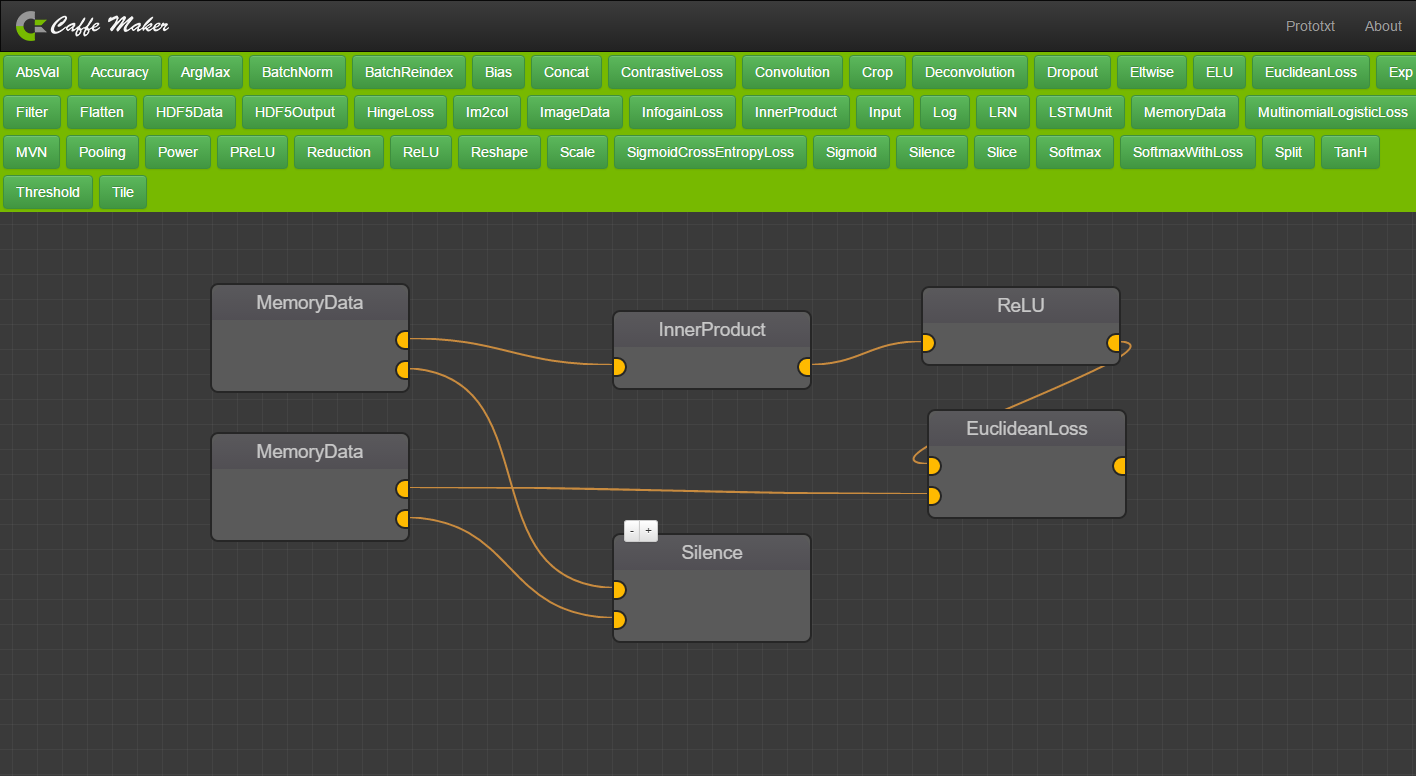
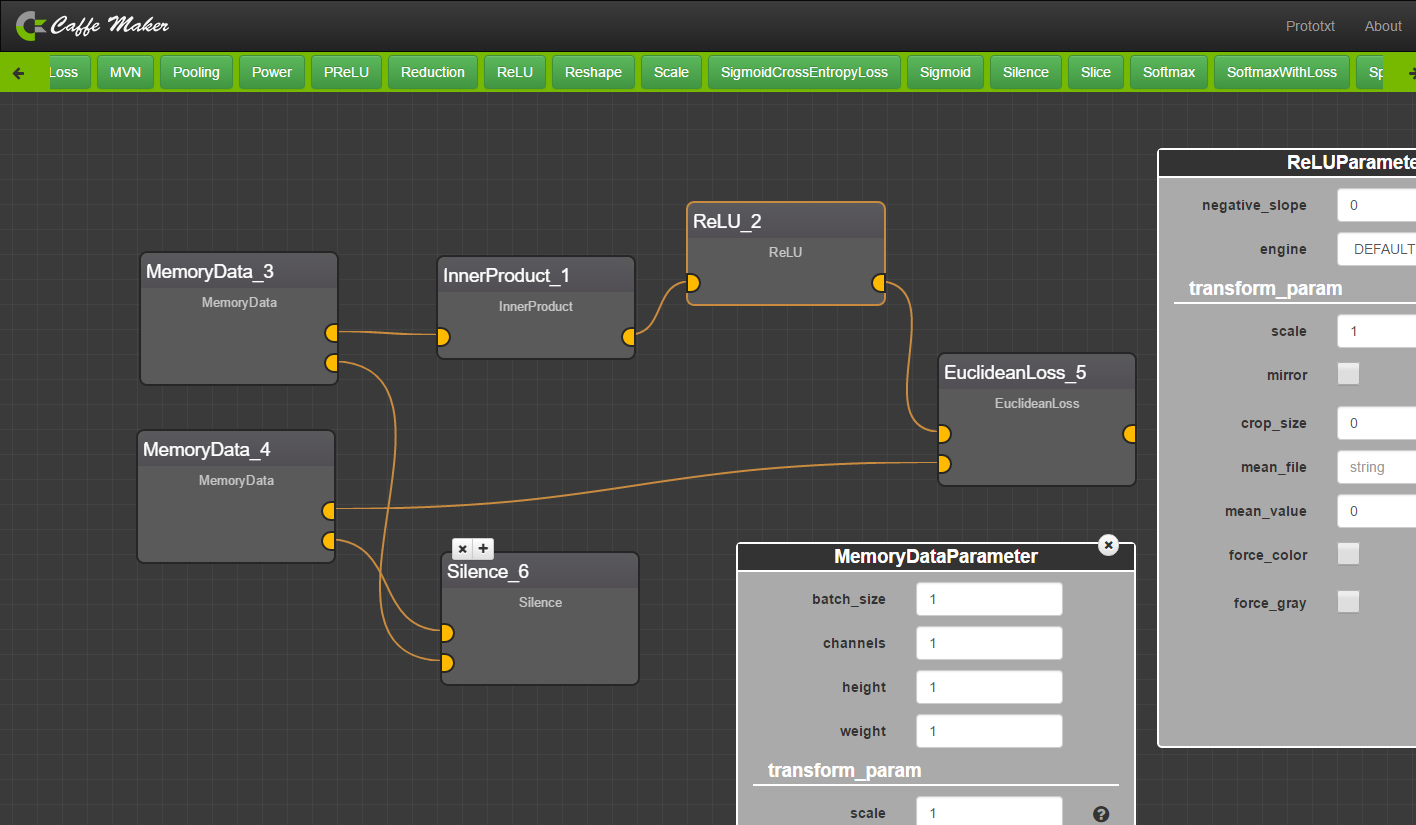
Added layers' parameters and panels.

diff --git a/src/app/property-view/property-view.component.ts b/src/app/property-view/property-view.component.ts
@@ -1,4 +1,5 @@
-import { Component, OnInit } from '@angular/core';
+import { Component, OnInit, Input } from '@angular/core';
+import { Property , PropertyType } from '../layer-parameter'
 
 @Component({
   selector: 'app-property-view',
@@ -6,10 +7,51 @@ import { Component, OnInit } from '@angular/core';
   styleUrls: ['./property-view.component.css']
 })
 export class PropertyViewComponent implements OnInit {
+  
+  @Input() property : Property;
 
   constructor() { }
 
   ngOnInit() {
+  }
+
+  isNumber() {
+    return (this.property.type == PropertyType.float || this.property.type == PropertyType.int32 || this.property.type == PropertyType.int64 || this.property.type == PropertyType.uint32);
+  }
+  hasMinimum() {
+    return this.property.type == PropertyType.uint32;
+  }
+  minimum() {
+    return 0;
+  }
+  isText() {
+    return (this.property.type == PropertyType.string);
+  }
+  isOption() {
+    return (this.property.type == PropertyType.options);
+  }
+
+  isBool() {
+    return this.property.type == PropertyType.bool;
+  }
+
+  placeHolder() : string{
+    switch(this.property.type)
+    {
+      case PropertyType.bool:
+        return "bool";
+      case PropertyType.float:
+        return "float";
+      case PropertyType.int32:
+        return "int32";
+      case PropertyType.int64:
+        return "int64";
+      case PropertyType.string:
+        return "string";
+      case PropertyType.uint32:
+      return "uint32";
+    }
+    return "";
   }
 
 }

diff --git a/src/app/caffe-buffet/caffe-buffet.component.html b/src/app/caffe-buffet/caffe-buffet.component.html
@@ -1,9 +1,9 @@
 <div class="buffet">  
-  <div class="scroller-left" (mousedown)="startScrollLeft()" (mouseup)="stopScroll()" (dblclick)="scrollLeft()"><i class="fa-arrow-left fa fa-2x"></i></div>
-  <div class="scroller-right" (mousedown)="startScrollRight()" (mouseup)="stopScroll()" (dblclick)="scrollRight()"><i class="fa-arrow-right fa fa-2x"></i></div>    
+  <div class="scroller-left" (mousedown)="startScrollLeft()" (mouseup)="stopScroll()" (dblclick)="scrollLeft()"><i class="fa-arrow-left fa fa"></i></div>
+  <div class="scroller-right" (mousedown)="startScrollRight()" (mouseup)="stopScroll()" (dblclick)="scrollRight()"><i class="fa-arrow-right fa"></i></div>    
   <div class="buffet-outer" #outer>        
     <div class="buffet-inner" #inner>      
-      <button class="btn btn-success btn-lg" data-toggle="tooltip" title="{{node.description}}" style="margin: 3px" *ngFor="let node of factory.nodes" (dragstart)="onDragStart($event,node)" draggable="true">{{node}}</button>
+      <button class="btn btn-success" data-toggle="tooltip" title="{{node.description}}" style="margin: 3px" *ngFor="let node of factory.nodes" (dragstart)="onDragStart($event,node)" draggable="true">{{node}}</button>
     </div>
   </div>
 </div>

diff --git a/src/app/property-view/property-view.component.html b/src/app/property-view/property-view.component.html
@@ -1,3 +1,16 @@
-<p>
-  property-view works!
-</p>
+<div class="row" style="margin-bottom: 10px">
+  <div class="col-md-5 text-right">
+      <label class="form-label" style="margin-top: 7px;">{{property.protoText}}</label>
+  </div>
+<div class="col-md-5 text-left">
+     <input *ngIf="isText()" type="text" class="form-control" [(ngModel)]="property.value" [attr.placeholder]="placeHolder()">
+     <input *ngIf="isNumber()" type="number" class="form-control" [attr.min]="hasMinimum()?minimum():null" [(ngModel)]="property.value" [attr.placeholder]="placeHolder()">
+     <label *ngIf="isBool()"><input type="checkbox" style="width: 24px; height: 24px;" [(ngModel)]="property.value"></label>
+     <select *ngIf="isOption()" class="form-control" (ngModelChange)="property.value = $event">
+        <option [value]="item" *ngFor="let item of property.options">{{item}}</option>
+    </select>    
+</div>
+<div class="col-md-2 text-left">
+  <span *ngIf="property.description!=''" style="margin-top: 12px;" class="fa fa-question-circle fa-lg" data-toggle="tooltip" [attr.title]="property.description"></span>
+</div>
+</div>

diff --git a/src/app/property-widget/property-widget.component.ts b/src/app/property-widget/property-widget.component.ts
@@ -1,4 +1,4 @@
-import { Component, OnInit, Input } from '@angular/core';
+import { Component, OnInit, Input, Output, EventEmitter } from '@angular/core';
 import { NodeComponent } from '../node/node.component'
 import { Vec } from '../vec'
 import { LayerParameter } from '../layer-parameter'
@@ -11,15 +11,20 @@ import { LayerParameter } from '../layer-parameter'
 export class PropertyWidgetComponent implements OnInit {
   
   @Input() nodeComponent : NodeComponent;
+  @Output() closeRequest : EventEmitter<any> = new EventEmitter();
+
   public pos : Vec ;
-  public parameters : LayerParameter;
+  public params : LayerParameter;
 
   constructor() { }
 
   ngOnInit() {
     this.pos = this.nodeComponent.pos.add(new Vec(50,50));
-    this.parameters = this.nodeComponent.descriptor.parameters;
-    console.log(this.parameters);
+    this.params = this.nodeComponent.descriptor.parameters;    
+  }
+
+  close() {
+    this.closeRequest.emit();
   }
 
 }

diff --git a/src/app/property-widget/property-widget.component.html b/src/app/property-widget/property-widget.component.html
@@ -1,8 +1,10 @@
 <div class="property-widget" [style.left]="pos.x + 'px'" [style.top]="pos.y + 'px'" draggable="true">
-    <button class="btn btn-default close-button"><span class="fa fa-times"></span></button>
-    <div class="row">
-        <div class="col-md-12">
-            
-        </div>
+    <button class="btn btn-default btn-xs close-button" (click)="close()"><span class="fa fa-times"></span></button>
+    <div class="property-widget-contents">
+        <div class="row text-center layer-param-title">
+            <div class="col-md-12">{{params.displayText}}</div>
+        </div>        
+        <div class="row" *ngFor="let p of params.properties"><div class="col-md-12"><app-property-view [property]="p"></app-property-view></div></div>
+        <div class="row" *ngFor="let g of params.propertyGroups"><div class="col-md-12"><app-property-group-view [propertyGroup]="g"></app-property-group-view></div></div>        
     </div>
 </div>

diff --git a/src/app/scene/scene.component.ts b/src/app/scene/scene.component.ts
@@ -21,7 +21,7 @@ export class SceneComponent implements OnInit, AfterViewInit {
   public sceneDrag: Vec = null
   public wires: Wire[] = [];
   public nodeDescriptors: NodeDescriptor[] = [];
-  public nodeOnView : NodeComponent = null;
+  public propertyPanels : NodeComponent[] = [];
 
   //public caffe: protobuf.Root;
   @ViewChildren(NodeComponent) nodes: QueryList<NodeComponent>;
@@ -216,7 +216,14 @@ export class SceneComponent implements OnInit, AfterViewInit {
   }
   
   onRequestPropertyWidget($event : NodeComponent) {
-    this.nodeOnView = $event;
+    var index = this.propertyPanels.indexOf($event);
+    if (index == -1)
+      this.propertyPanels.push($event);    
   }
 
+  onCloseRequest(panel : NodeComponent) {
+    var index = this.propertyPanels.indexOf(panel);
+    if (index != -1)
+      this.propertyPanels.splice(index,1);    
+  }
 }

diff --git a/src/app/scene/scene.component.html b/src/app/scene/scene.component.html
@@ -1,5 +1,5 @@
 <div class="scene" (mousemove)="onMouseMove($event)" (mouseup)="onMouseUp($event)" (drop)="onDrop($event)" (dragover)='onDragOver($event)'>
-    <app-property-widget *ngIf="nodeOnView" [nodeComponent]="nodeOnView"></app-property-widget>
+    <app-property-widget *ngFor="let panel of propertyPanels" [nodeComponent]="panel" (closeRequest)="onCloseRequest(panel)"></app-property-widget>
     <node *ngFor="let descriptor of nodeDescriptors; let i = index" [nodeIndex]="i" [descriptor]="descriptor" (requestPropertyWidget)="onRequestPropertyWidget($event)" (inputTerminalMouseUp)="onInputTerminalMouseUp($event)"
         (outputTerminalMouseUp)="onOutputTerminalMouseUp($event)" (inputTerminalMouseDown)="onInputTerminalMouseDown($event)" (outputTerminalMouseDown)="onOutputTerminalMouseDown($event)" (removeWire)="removeWire($event)">
     </node>

diff --git a/src/app/node/node.component.html b/src/app/node/node.component.html
@@ -8,7 +8,7 @@
     (positionChange)="onPositionChange($event)"
     (click)="onNodeMouseDown($event)"
     draggable >    
-    <div class="node-name" [style.width]="nameSize.x + 'px'" [style.height]="nameSize.y + 'px'"><input type="text" spellcheck="false" (click)="$event.stopPropagation()" style="width: 100%; height:100%; border: none;" [(ngModel)]="name"/></div>
+    <div class="node-name" [style.width]="nameSize.x + 'px'" [style.height]="nameSize.y + 'px'"><input type="text" spellcheck="false" (click)="onTitleMouseDown($event)" style="width: 100%; height:100%; border: none;" [(ngModel)]="name"/></div>
     <div class="node-type" [style.width]="typeSize.x + 'px'" [style.height]="typeSize.y + 'px'">{{ descriptor.type }}</div>    
     <div class="input-terminal" 
     *ngFor="let t of inputs" 

diff --git a/src/app/property-widget/property-widget.component.css b/src/app/property-widget/property-widget.component.css
@@ -9,12 +9,27 @@
     border-color: #fff;
     border-width: 2px;
     border-radius: 5px;
-    z-index: 50;
+    z-index: 50;        
+}
+
+.property-widget-contents {
+    height: 100%;
+    overflow-y : auto;    
+    overflow-x : hidden;
 }
 
 .close-button {
-    position: relative;
+    position: absolute;
     top: -10px;
-    left: 380px;
+    left: 360px;
     border-radius: 100px;
+}
+
+.layer-param-title {
+    background-color: #333;
+    border-bottom: 2px solid #fff;
+    font-weight: bold;
+    font-size: 14pt;
+    color : #fff;
+    margin-bottom: 10px;
 }

diff --git a/src/app/property-group-view/property-group-view.component.html b/src/app/property-group-view/property-group-view.component.html
@@ -1,3 +1,3 @@
-<p>
-  property-group-view works!
-</p>
+<div class="row group-title"><div class="col-md-12">{{propertyGroup.displayText}}</div></div>
+<div class="row" *ngFor="let p of propertyGroup.properties"><div class="col-md-12"><app-property-view [property]="p"></app-property-view></div></div>
+<div class="row" *ngFor="let g of propertyGroup.propertyGroups"><div class="col-md-12"><app-property-group-view [propertyGroup]="g"></app-property-group-view></div></div>

diff --git a/src/app/caffe-buffet/caffe-buffet.component.ts b/src/app/caffe-buffet/caffe-buffet.component.ts
@@ -28,13 +28,13 @@ export class CaffeBuffetComponent implements OnInit {
 
   startScrollRight() {
     this.timer = setInterval(()=> {
-      this.outerContent.nativeElement.scrollLeft += 1;
+      this.outerContent.nativeElement.scrollLeft += 2;
     },5);
   }
 
   startScrollLeft() {
     this.timer = setInterval(()=> {      
-      this.outerContent.nativeElement.scrollLeft -= 1;    
+      this.outerContent.nativeElement.scrollLeft -= 2;    
     },5);
   }
 

diff --git a/src/app/property-group-view/property-group-view.component.ts b/src/app/property-group-view/property-group-view.component.ts
@@ -1,4 +1,5 @@
-import { Component, OnInit } from '@angular/core';
+import { Component, OnInit, Input } from '@angular/core';
+import { Property, PropertyGroup } from '../layer-parameter'
 
 @Component({
   selector: 'app-property-group-view',
@@ -7,6 +8,7 @@ import { Component, OnInit } from '@angular/core';
 })
 export class PropertyGroupViewComponent implements OnInit {
 
+  @Input() propertyGroup : PropertyGroup;
   constructor() { }
 
   ngOnInit() {
